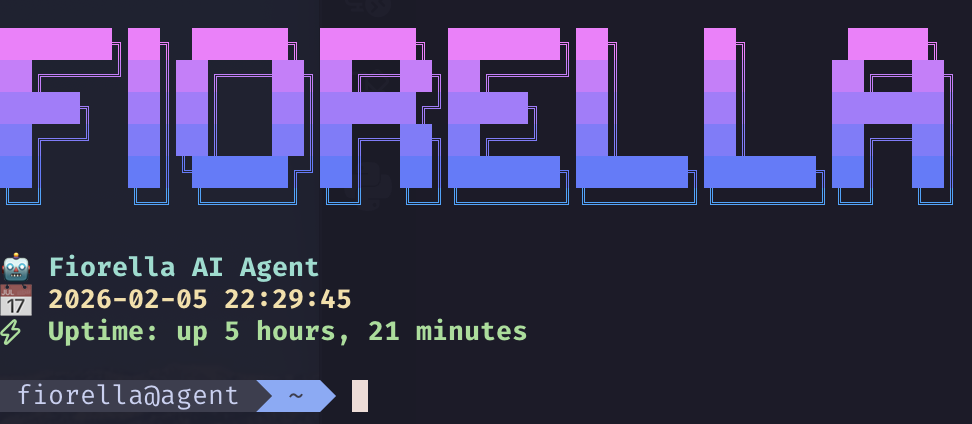
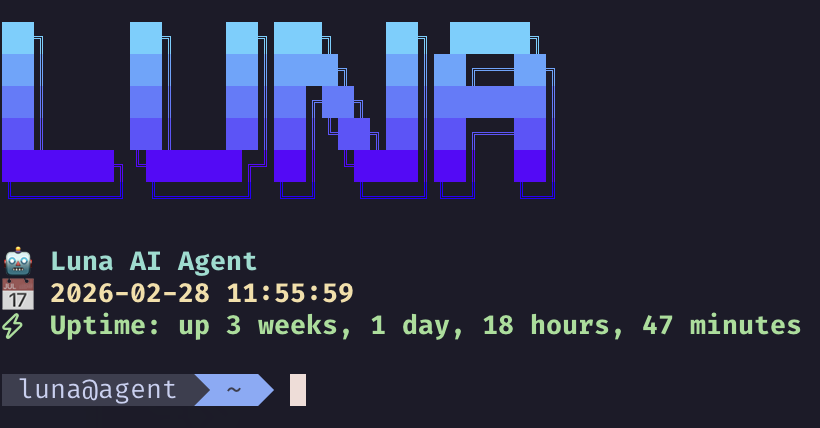
rename to luna

diff --git a/README.md b/README.md
@@ -2,7 +2,7 @@
 
 ![Agent](./art/agent.png)
 
-This repository contains the complete configuration for Fiorella's development and automation environment, who is Matthieu's AI agent (a useful assistant). But there's also Claude, Copilot, Codex, Ralph and all the others.
+This repository contains the complete configuration for Luna's development and automation environment, who is Matthieu's AI agent (a useful assistant). But there's also Claude, OpenCode, Copilot, Codex, Ralph and all the others.
 
 ## Get started
 
@@ -11,11 +11,11 @@ This repository contains the complete configuration for Fiorella's development a
 curl -fsSL https://raw.githubusercontent.com/matthieumota/agent/refs/heads/main/install.sh | bash -s setup
 
 # Login as agent
-ssh fiorella@vps
+ssh luna@vps
 
 # Generate a ssh key and add to agent's Github account
-ssh-keygen -t ed25519 -C "fiorella@boxydev.com"
-cat /home/fiorella/.ssh/id_ed25519.pub
+ssh-keygen -t ed25519 -C "luna@boxydev.com"
+cat /home/luna/.ssh/id_ed25519.pub
 
 # Run after logged as agent
 curl -fsSL https://raw.githubusercontent.com/matthieumota/agent/refs/heads/main/install.sh | bash
@@ -35,5 +35,5 @@ Agent can use local browser :
 
 ```bash
 google-chrome-stable --remote-debugging-port=9222 --user-data-dir=/tmp/chrome-debug
-ssh -R 9222:127.0.0.1:9222 -N fiorella@vps
+ssh -R 9222:127.0.0.1:9222 -N luna@vps
 ```
